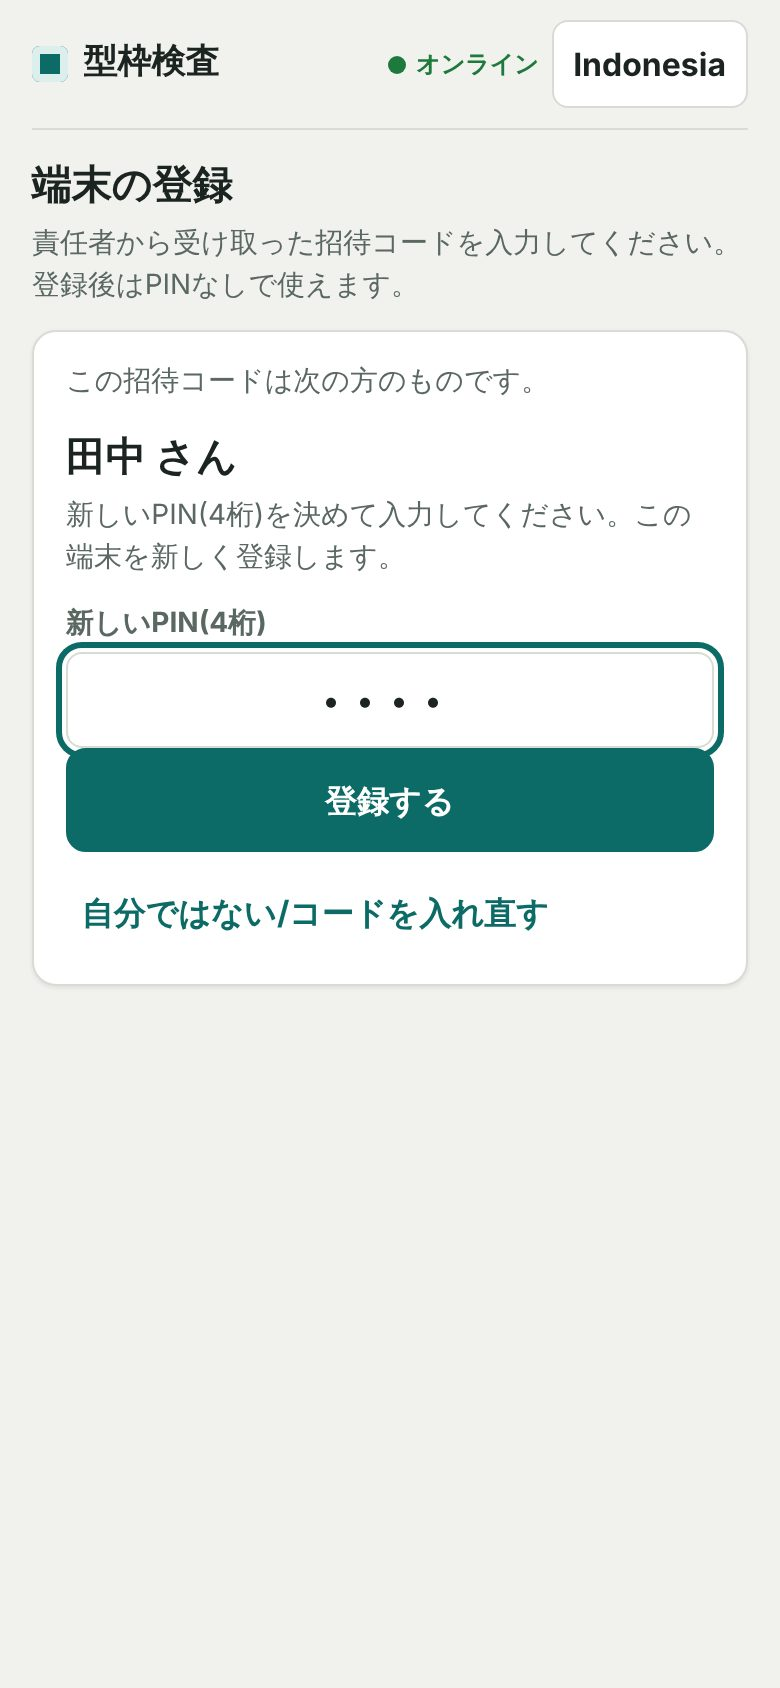
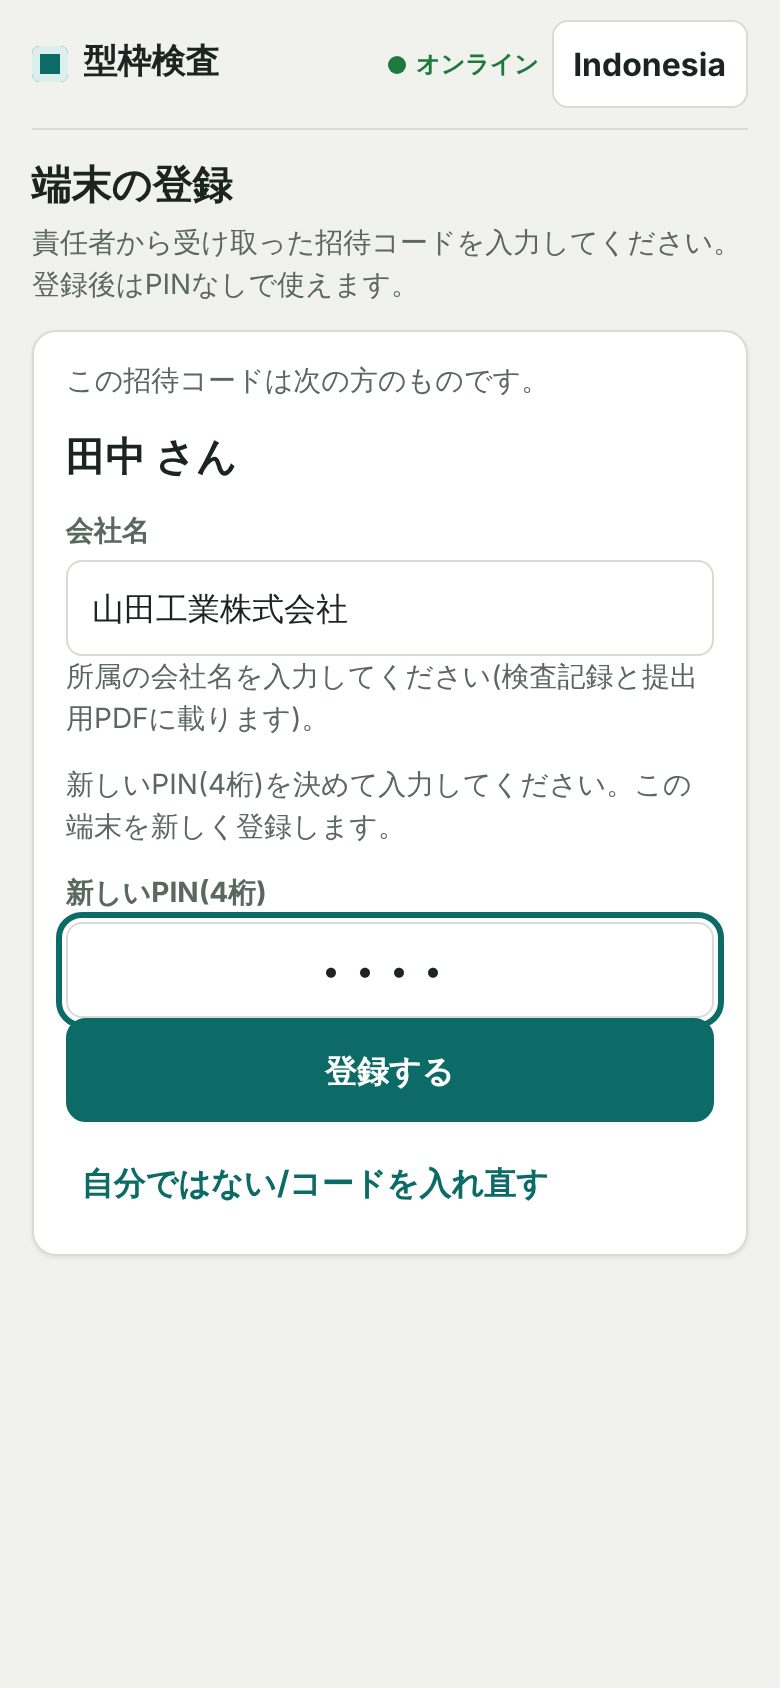
登録時に会社名を入力し、検査記録(ownerCompany)に残す(SPEC 1.8.0)
Claude-Session: https://claude.ai/code/session_01BgQNN8WWX2ApqLtkWfuQJU

Changed region(s): [[0.0615, 0.2773, 0.9538, 0.7085], [0.5231, 0.2773, 0.5538, 0.3081]]

diff --git a/mock/engine.js b/mock/engine.js
@@ -84,6 +84,7 @@ function driveGet(fileId) {
 // マスタ参照・名簿
 // ---------------------------------------------------------------------------
 const user = (id) => (id ? find('Users', id) : null);
+const userCompanyOf = (id) => { const u = user(id); return u && u.company ? u.company : ''; };
 const userName = (id) => { const u = user(id); return u ? u.name : (id || null); };
 const siteRow = (id) => find('Sites', id);
 const splitCsv = (s) => (s ? String(s).split(',').map((x) => x.trim()).filter(Boolean) : []);
@@ -319,7 +320,7 @@ function allowedActions(actor, rec) {
 // ---------------------------------------------------------------------------
 // ビュー(§5.1)
 // ---------------------------------------------------------------------------
-const meView = (u) => ({ userId: u.userId, name: u.name, role: u.role, status: u.status === 'locked' ? 'locked' : 'active', lang: u.lang, email: u.email || null });
+const meView = (u) => ({ userId: u.userId, name: u.name, role: u.role, status: u.status === 'locked' ? 'locked' : 'active', company: u.company || '', lang: u.lang, email: u.email || null });
 const publicItem = (r) => ({ itemId: r.itemId, seq: r.seq, stage: r.stage, audience: r.audience, groupKey: r.groupKey, groupJa: r.groupJa, groupId: r.groupId, textJa: r.textJa, textId: r.textId, key: r.key, tol: r.tol, measure: r.measure, minMeasures: r.minMeasures, unit: r.unit });
 function enabledItems() {
   const stages = splitCsv(cfg('enabledStages'));
@@ -356,7 +357,7 @@ function summaryView(actor, rec) {
   return {
     recordId: rec.recordId, siteId: rec.siteId, floor: rec.floor, zone: rec.zone || '', lot: rec.lot, stage: rec.stage,
     status: rec.status, round: rec.round, reinspectOf: rec.reinspectOf || null,
-    ownerUserId: rec.ownerUserId, ownerName: userName(rec.ownerUserId), team: rec.team || '',
+    ownerUserId: rec.ownerUserId, ownerName: userName(rec.ownerUserId), ownerCompany: rec.ownerCompany || userCompanyOf(rec.ownerUserId), team: rec.team || '',
     pourPlannedAt: rec.pourPlannedAt || null, submittedAt: rec.submittedAt || null,
     claimedBy: rec.claimedBy || null, claimedByName: rec.claimedBy ? userName(rec.claimedBy) : null, claimedAt: rec.claimedAt || null,
     qaVerdict: rec.qaVerdict || null, major: !!rec.major, stopped: !!rec.stopped, escLevel: escLevel(rec),
@@ -543,7 +544,7 @@ const A = (roles, shape, extra = {}) => Object.assign({ roles, shape, handler: n
 const ACTIONS = {
   ping: A(ROLES_ALL, {}, { pub: true }),
   lookupInvite: A(ROLES_ALL, { inviteCode: 's' }, { pub: true }),
-  registerDevice: A(ROLES_ALL, { inviteCode: 's', pin: 's', deviceLabel: 's?', platform: 's?', appVersion: 's?' }, { pub: true, write: true }),
+  registerDevice: A(ROLES_ALL, { inviteCode: 's', pin: 's', deviceLabel: 's?', platform: 's?', appVersion: 's?', company: 's?' }, { pub: true, write: true }),
   me: A(ROLES_ALL, {}), setLang: A(ROLES_ALL, { lang: 's' }, { write: true }),
   changePin: A(ROLES_ALL, { newPin: 's' }, { write: true, star: true, pin: true }),
   logoutDevice: A(ROLES_ALL, {}, { write: true }), getBootstrap: A(ROLES_ALL, {}),

diff --git a/tests/e2e/foreman.spec.js b/tests/e2e/foreman.spec.js
@@ -47,13 +47,35 @@ describe('E-01 登録', () => {
     await page.getByRole('button', { name: s.t('scr.S01.next') }).click();
     await page.locator('input[name=pin]').waitFor();
     const txt = await page.locator('#view').innerText();
-    assert.ok(txt.includes('田中') && txt.includes('山田工業株式会社'), '氏名と会社名の確認が出る');
+    assert.ok(txt.includes('田中'), '氏名の確認が出る');
+    assert.equal(await page.locator('input[name=company]').inputValue(), '山田工業株式会社', '会社名は名簿の値が初期表示');
     await page.locator('input[name=pin]').fill('1111');
     await page.getByRole('button', { name: s.t('scr.S01.register') }).click();
     await page.getByRole('heading', { name: s.t('scr.S03.title') }).waitFor();
     await page.reload();
     await page.getByRole('heading', { name: s.t('scr.S03.title') }).waitFor();
     assert.equal(await page.locator('input[name=invite]').count(), 0, '再登録画面に戻らない');
+    s.assertClean();
+    await s.close();
+  });
+});
+
+describe('E-01b 会社名の入力', () => {
+  it('初回登録は会社名が空だと「登録する」が押せず、入力すると登録でき、名簿(Users.company)に入る', async () => {
+    await E.mock('patch', { sheet: 'Users', key: 'u_tanaka', set: { company: '', status: 'invited' } });
+    const s = await E.newSession(env);
+    const { page } = s;
+    await E.enterCode(s, await E.issueCode('田中'));
+    await page.locator('input[name=pin]').waitFor();
+    const reg = page.getByRole('button', { name: s.t('scr.S01.register') });
+    await page.locator('input[name=pin]').fill('1111');
+    assert.equal(await reg.isDisabled(), true, '会社名が空のうちは登録できない');
+    await page.locator('input[name=company]').fill('  新規建設  株式会社 ');
+    assert.equal(await reg.isDisabled(), false);
+    await reg.click();
+    await page.getByRole('heading', { name: s.t('scr.S03.title') }).waitFor();
+    const u = (await E.stateRows('Users')).find((x) => x.userId === 'u_tanaka');
+    assert.equal(u.company, '新規建設 株式会社');
     s.assertClean();
     await s.close();
   });
@@ -157,6 +179,8 @@ describe('E-09 ロック', () => {
     await page.getByRole('button', { name: s.t('scr.S02.logout') }).click();
     await page.locator('input[name=invite]').waitFor();
     await E.enterCode(s, await E.issueCode('田中'));
+    const co = page.locator('input[name=company]');
+    if (!(await co.inputValue())) await co.fill('テスト工業');
     await page.locator('input[name=pin]').fill('1111');
     await page.getByRole('button', { name: s.t('scr.S01.register') }).click();
     await page.getByRole('heading', { name: s.t('scr.S03.title') }).waitFor();

diff --git a/mock/seed.js b/mock/seed.js
@@ -9,7 +9,7 @@ const SCHEMA_SRC = {
   Memberships: 'membershipId:str siteId:str userId:str status:enum(pending,approved,rejected,revoked) requestedAt:dt requestClientId:str decidedBy:str decidedAt:dt assignRole:enum(foreman,subforeman) team:str note:str',
   Devices: 'deviceId:str userId:str tokenHash:str label:str platform:str appVersion:str status:enum(active,revoked) registeredAt:dt lastSeenAt:dt revokedAt:dt revokedBy:str revokeReason:str',
   Items: 'itemId:str seq:int stage:enum(pre_pour,during_pour,demold,post_demold,cleanup) audience:enum(both,foreman,qa) groupKey:str groupJa:str groupId:str textJa:str textId:str key:bool tol:num measure:enum(none,optional,required) minMeasures:int unit:str active:bool note:str',
-  Records: 'recordId:str siteId:str floor:str zone:str lot:str stage:enum(pre_pour,during_pour,demold,post_demold,cleanup) status:enum(draft,submitted,fix,qa_ok,approved) round:int reinspectOf:str ownerUserId:str team:str pourPlannedAt:dt firstSubmittedAt:dt submittedBy:str submittedAt:dt claimedBy:str claimedAt:dt qaDraftAt:dt qaVerdict:enum(ok,minor,major) qaVerdictBy:str qaVerdictAt:dt qaComment:str major:bool primeSignedBy:str primeSignedAt:dt primeSignerName:str primeSignMethod:enum(paper,pdf,onsite) stopped:bool stoppedBy:str stoppedAt:dt stopReason:str escNotified:int createdAt:dt updatedAt:dt version:int',
+  Records: 'recordId:str siteId:str floor:str zone:str lot:str stage:enum(pre_pour,during_pour,demold,post_demold,cleanup) status:enum(draft,submitted,fix,qa_ok,approved) round:int reinspectOf:str ownerUserId:str team:str pourPlannedAt:dt firstSubmittedAt:dt submittedBy:str submittedAt:dt claimedBy:str claimedAt:dt qaDraftAt:dt qaVerdict:enum(ok,minor,major) qaVerdictBy:str qaVerdictAt:dt qaComment:str major:bool primeSignedBy:str primeSignedAt:dt primeSignerName:str primeSignMethod:enum(paper,pdf,onsite) stopped:bool stoppedBy:str stoppedAt:dt stopReason:str escNotified:int createdAt:dt updatedAt:dt version:int ownerCompany:str',
   RecordItems: 'recordItemId:str recordId:str itemId:str snapshot:json selfResult:enum(ok,ng,na) selfSeverity:enum(minor,major) selfValues:json foremanNote:str selfUpdatedAt:dt qaResult:enum(ok,ng,na) qaSeverity:enum(minor,major) qaValues:json qaNote:str qaUpdatedAt:dt',
   Photos: 'photoId:str recordId:str itemId:str side:enum(self,qa,prime) round:int takenBy:str takenAt:dt receivedAt:dt mime:str bytes:int width:int height:int sha256:str stampText:str driveFileId:str thumbFileId:str clockSuspect:bool deleted:bool deletedBy:str deletedAt:dt kind:enum(photo,drawing) markers:json',
   Notes: 'noteId:str recordId:str itemId:str kind:enum(foreman,manager) authorUserId:str authorRole:enum(foreman,qa,lead) round:int text:str source:enum(submit,verdict,addNote) clientId:str createdAt:dt',

diff --git a/frontend/js/ui/s01.js b/frontend/js/ui/s01.js
@@ -91,15 +91,21 @@
         KW.clear(body);
         var isFirst = found.purpose === 'first';
         var pin = h('input', { type: 'password', inputmode: 'numeric', autocomplete: 'off', maxlength: '4', pattern: '[0-9]*', class: 'inp pin', 'aria-label': t('pin.label'), name: 'pin' });
+        var company = h('input', { type: 'text', class: 'inp', maxlength: '40', autocomplete: 'organization', name: 'company', 'aria-label': t('scr.S01.company'), value: found.company || '' });
         var msg = h('div');
         var go = h('button', { type: 'button', class: 'btn', disabled: true }, t('scr.S01.register'));
-        pin.addEventListener('input', function () { pin.value = pin.value.replace(/\D/g, '').slice(0, 4); go.disabled = !/^\d{4}$/.test(pin.value); });
+        // 会社名は初回登録のとき必須(再設定のときは空でも可)
+        function ready() { go.disabled = !(/^\d{4}$/.test(pin.value) && (!isFirst || company.value.trim())); }
+        pin.addEventListener('input', function () { pin.value = pin.value.replace(/\D/g, '').slice(0, 4); ready(); });
+        company.addEventListener('input', ready);
+        ready();
         go.addEventListener('click', C.guard(go, function () {
           KW.clear(msg);
           var pv = pin.value;
           return confirmSwitch(found).then(function (sw) {
             if (!sw.go) { if (sw.incomplete) msg.appendChild(C.msg('', t('scr.S01.send_incomplete'))); return null; }
             var params = { inviteCode: codeValue, pin: pv, deviceLabel: deviceLabel(), platform: platform(), appVersion: KW.config.APP_VERSION };
+            if (company.value.trim()) params.company = company.value.trim().slice(0, 40);
             pin.value = ''; go.disabled = true;
             return KW.api.call('registerDevice', params).then(function (res) {
               params = null; pv = null;
@@ -119,7 +125,8 @@
         body.appendChild(h('div', { class: 'card' },
           h('p', { class: 'sub' }, t('scr.S01.confirm_q')),
           h('h2', null, t('scr.S01.confirm_name', { name: found.name })),
-          found.company ? h('div', { class: 'sub' }, found.company) : null,
+          h('label', { class: 'lbl' }, t('scr.S01.company') + (isFirst ? ' *' : '')), company,
+          h('p', { class: 'sub' }, t('scr.S01.company_hint')),
           h('p', { class: 'sub' }, isFirst ? t('scr.S01.invite_first') : t('scr.S01.invite_reset')),
           h('label', { class: 'lbl' }, t('scr.S01.pin_new')), pin,
           msg,

diff --git a/tests/contract/auth.test.js b/tests/contract/auth.test.js
@@ -32,7 +32,7 @@ describe('C-AUTH 端末登録・ロック', () => {
     assert.equal(reg.ok, true, JSON.stringify(reg.error));
     assert.match(reg.data.deviceId, /^d_[a-z0-9]{3,32}$/);
     assert.ok(reg.data.deviceToken.startsWith(reg.data.deviceId + '.'));
-    assert.deepEqual(Object.keys(reg.data.user).sort(), ['email', 'lang', 'name', 'role', 'status', 'userId']);
+    assert.deepEqual(Object.keys(reg.data.user).sort(), ['company', 'email', 'lang', 'name', 'role', 'status', 'userId']);
     const me = await h.call('me', {}, { token: reg.data.deviceToken });
     assert.equal(me.data.user.userId, 'u_tanaka');
     assert.equal(me.data.user.name, '田中');
@@ -75,9 +75,16 @@ describe('C-AUTH 端末登録・ロック', () => {
     assert.equal(look.data.name, 'スギアント');
     assert.equal(look.data.purpose, 'first');
     assert.equal((await h.call('lookupInvite', { inviteCode: '123456' })).ok, true, 'lookup では使用済みにならない');
-    const ok = await h.call('registerDevice', { inviteCode: '123456', pin: '5555' });
+    // 初回登録は会社名が必須(名簿に会社名が無いとき)
+    const noCo = await h.call('registerDevice', { inviteCode: '123456', pin: '5555' });
+    assert.equal(noCo.error.code, 'VALIDATION_FAILED');
+    assert.equal(noCo.error.data.violations[0].path, 'company');
+    assert.equal((await h.call('registerDevice', { inviteCode: '123456', pin: '5555', company: 'あ'.repeat(41) })).error.code, 'VALIDATION_FAILED', '41文字は不可');
+    assert.equal((await h.call('lookupInvite', { inviteCode: '123456' })).ok, true, '会社名不足の失敗ではコードを消費しない');
+    const ok = await h.call('registerDevice', { inviteCode: '123456', pin: '5555', company: '  山田工業  株式会社 ' });
     assert.equal(ok.ok, true, JSON.stringify(ok.error));
     assert.equal(ok.data.user.userId, 'u_sugiant');
+    assert.equal(ok.data.user.company, '山田工業 株式会社', '前後の空白を除き連続空白を1つにして保存');
     assert.equal(ok.data.user.status, 'active');
     assert.equal((await h.call('registerDevice', { inviteCode: '123456', pin: '5555' })).error.code, 'INVITE_INVALID', 'コードの再使用は不可');
     assert.equal((await h.call('lookupInvite', { inviteCode: '123456' })).error.code, 'INVITE_INVALID');

diff --git a/mock/actions.js b/mock/actions.js
@@ -63,9 +63,13 @@ module.exports = function install(C) {
     const viol = C.shapeViolations(C.ACTIONS.registerDevice.shape, p);
     if (!viol.length && !/^\d{4}$/.test(p.pin)) viol.push({ rule: 'FIELD_INVALID', path: 'pin' });
     if (!viol.length && !/^\d{6}$/.test(p.inviteCode)) viol.push({ rule: 'FIELD_INVALID', path: 'inviteCode' });
+    const company = String(p.company == null ? '' : p.company).replace(/\s+/g, ' ').trim();
+    if (!viol.length && company.length > 40) viol.push({ rule: 'FIELD_INVALID', path: 'company' });
     if (viol.length) vfail(viol);
     const { inv, u } = resolveInvite(p.inviteCode);
+    if (inv.purpose === 'first' && !company && !u.company) vfail([{ rule: 'FIELD_INVALID', path: 'company' }]);
     inv.usedAt = nowDt();
+    if (company) u.company = company;
     setPin(u, p.pin);
     if (inv.purpose === 'first') u.status = 'active';
     else ev('pin_changed', { actorUserId: u.userId, actorRole: u.role, detail: { via: 'invite' } });
@@ -227,7 +231,7 @@ module.exports = function install(C) {
     const rec = insert('Records', {
       recordId: p.recordId, siteId: p.siteId, floor: p.floor, zone, lot: p.lot, stage: p.stage, status: 'draft', round: 1, reinspectOf: p.reinspectOf || null,
       ownerUserId: actor.userId, team: C.teamOf(actor.userId, p.siteId), pourPlannedAt: p.pourPlannedAt ? U.normDt(p.pourPlannedAt) : null,
-      major: false, stopped: false, escNotified: 0, createdAt: n, updatedAt: n, version: 1,
+      major: false, stopped: false, escNotified: 0, createdAt: n, updatedAt: n, version: 1, ownerCompany: actor.company || '',
     });
     for (const it of C.enabledItems().filter((i) => i.stage === p.stage)) {
       insert('RecordItems', { recordItemId: `${rec.recordId}:${it.itemId}`, recordId: rec.recordId, itemId: it.itemId, snapshot: { seq: it.seq, stage: it.stage, audience: it.audience, groupKey: it.groupKey, groupJa: it.groupJa, groupId: it.groupId, textJa: it.textJa, textId: it.textId, key: it.key, tol: it.tol, measure: it.measure, minMeasures: it.minMeasures, unit: it.unit }, selfValues: [], qaValues: [] });

diff --git a/tests/contract/misc.test.js b/tests/contract/misc.test.js
@@ -184,7 +184,23 @@ describe('C-ADMIN 管理', () => {
     assert.equal((await lead.call('adminIssueInvite', { userId: 'u_sugiant', purpose: 'pinReset' })).error.code, 'STATE_CONFLICT');
     const i = await lead.ok('adminIssueInvite', { userId: 'u_sugiant', purpose: 'first' });
     assert.equal((await h.call('registerDevice', { pin: '5555', inviteCode: '123456' })).error.code, 'INVITE_INVALID', '旧コード(シード)は新規発行で失効');
-    assert.equal((await h.call('registerDevice', { pin: '5555', inviteCode: i.code })).ok, true);
+    assert.equal((await h.call('registerDevice', { pin: '5555', inviteCode: i.code, company: 'テスト工業' })).ok, true);
+  });
+
+  h.mockOnly(it, 'C-ADMIN-02(mock-only): 検査記録の ownerCompany は作成時の会社名の写し(後で名簿が変わっても過去の記録は変わらない)', async () => {
+    await h.reset();
+    await h.mock('patch', { sheet: 'Users', key: 'u_tanaka', set: { company: '山田工業株式会社' } });
+    const t = await h.login('u_tanaka');
+    const { recordId, res } = await h.createRecordFor(t, {});
+    assert.equal(res.ok, true, JSON.stringify(res.error));
+    assert.equal(res.data.record.ownerCompany, '山田工業株式会社');
+    await h.mock('patch', { sheet: 'Users', key: 'u_tanaka', set: { company: '別の会社' } });
+    const got = await h.getRecord(t, recordId);
+    assert.equal(got.ownerCompany, '山田工業株式会社', '作成時の写し');
+    const list = await t.ok('listRecords', { siteId: 's_a' });
+    assert.equal(list.records.find((r) => r.recordId === recordId).ownerCompany, '山田工業株式会社');
+    const { recordId: r2 } = await h.createRecordFor(t, {});
+    assert.equal((await h.getRecord(t, r2)).ownerCompany, '別の会社', '新しい記録は新しい会社名');
   });
 
   it('C-ADMIN-01: adminSetUserStatus(disabled)→全actionが USER_DISABLED、自分自身は不可、復帰', async () => {

diff --git a/frontend/js/ui/s03.js b/frontend/js/ui/s03.js
@@ -110,7 +110,7 @@
               var dest = masked ? null : (role === 'foreman' && acts.indexOf('saveDraft') >= 0 ? '#/record/' + r.recordId + '/edit' : '#/record/' + r.recordId);
               var label = masked
                 ? t('badge.masked')
-                : [t('lbl.lot') + ' ' + (r.lot || ''), r.zone || null, r.ownerName || null].filter(Boolean).join(' / ');
+                : [t('lbl.lot') + ' ' + (r.lot || ''), r.zone || null, C.ownerLabel(r) || null].filter(Boolean).join(' / ');
               // 他班(masked)は開けない。ただし actions に stopPour があるときは「打設を止める」だけ出す(SPEC §9.2 S04)
               if (masked && acts.indexOf('stopPour') >= 0) {
                 card.appendChild(C.maskedStopRow(r));
@@ -154,7 +154,7 @@
     var now = KW.time.toIso(KW.time.nowMs(KW.state.skewMs));
     return {
       recordId: p.recordId, siteId: p.siteId, floor: p.floor, zone: p.zone || '', lot: p.lot, stage: p.stage,
-      status: 'draft', round: 1, reinspectOf: p.reinspectOf || null, ownerUserId: me.userId, ownerName: me.name, team: site && site.myTeam || '',
+      status: 'draft', round: 1, reinspectOf: p.reinspectOf || null, ownerUserId: me.userId, ownerName: me.name, ownerCompany: me.company || '', team: site && site.myTeam || '',
       pourPlannedAt: p.pourPlannedAt || null, submittedAt: null, claimedBy: null, claimedByName: null, claimedAt: null,
       qaVerdict: null, major: false, stopped: false, escLevel: 0,
       counts: { total: items.length, filled: 0, ok: 0, ng: 0, na: 0 }, qaCounts: { filled: 0, ok: 0, ng: 0, na: 0 },

diff --git a/frontend/i18n.js b/frontend/i18n.js
@@ -326,6 +326,8 @@
     ['scr.S01.invite', '招待コード(6桁)', 'Kode undangan (6 digit)'],
     ['scr.S01.invite_first', 'これから使うPIN(4桁)を決めて入力してください。', 'Tentukan dan masukkan PIN (4 digit) yang akan dipakai.'],
     ['scr.S01.invite_reset', '新しいPIN(4桁)を決めて入力してください。この端末を新しく登録します。', 'Tentukan PIN baru (4 digit). Perangkat ini akan didaftarkan.'],
+    ['scr.S01.company', '会社名', 'Nama perusahaan'],
+    ['scr.S01.company_hint', '所属の会社名を入力してください(検査記録と提出用PDFに載ります)。', 'Masukkan nama perusahaan Anda (dicantumkan pada catatan inspeksi dan PDF).'],
     ['scr.S01.pin_new', '新しいPIN(4桁)', 'PIN baru (4 digit)'],
     ['scr.S01.forgot', 'PINを忘れた/再設定', 'Lupa PIN / atur ulang'],
     ['scr.S01.next', '次へ', 'Lanjut'],

diff --git a/frontend/js/ui/s11.js b/frontend/js/ui/s11.js
@@ -33,7 +33,7 @@
             if (masked && (r.actions || []).indexOf('stopPour') >= 0) { el.appendChild(C.maskedStopRow(r)); return; }
             el.appendChild(h('button', { type: 'button', class: 'tap', disabled: masked, on: { click: function () { KW.app.go('#/record/' + r.recordId); } } },
               h('span', null, h('b', null, masked ? t('badge.masked') : C.placeLine(r)),
-                h('small', null, masked ? C.siteName(r.siteId) : [C.siteName(r.siteId), r.ownerName, C.fmt(r.updatedAt), r.counts ? t('lbl.ng_count') + ' ' + r.counts.ng : null].filter(Boolean).join(' / '))),
+                h('small', null, masked ? C.siteName(r.siteId) : [C.siteName(r.siteId), C.ownerLabel(r), C.fmt(r.updatedAt), r.counts ? t('lbl.ng_count') + ' ' + r.counts.ng : null].filter(Boolean).join(' / '))),
               C.statusChip(r.status)));
           });
         });
